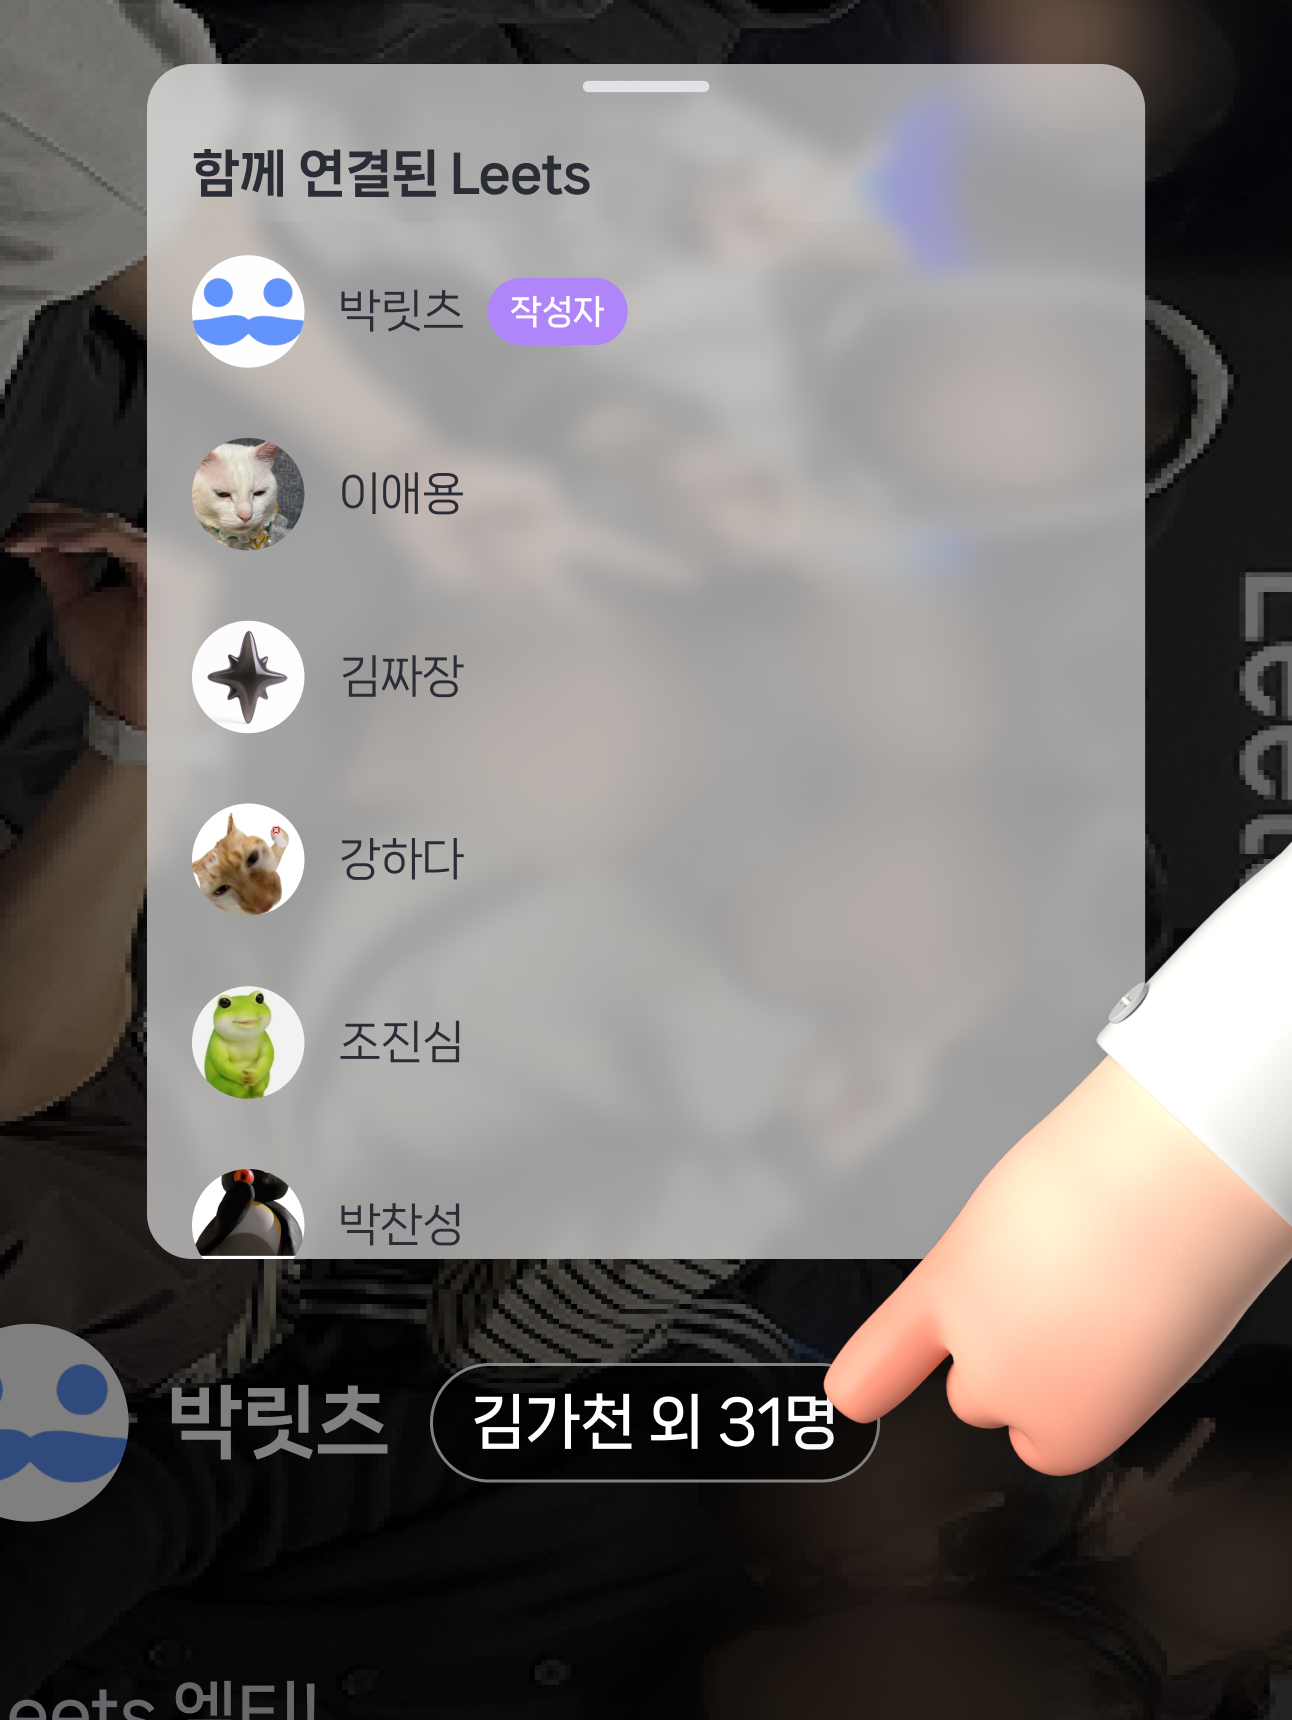
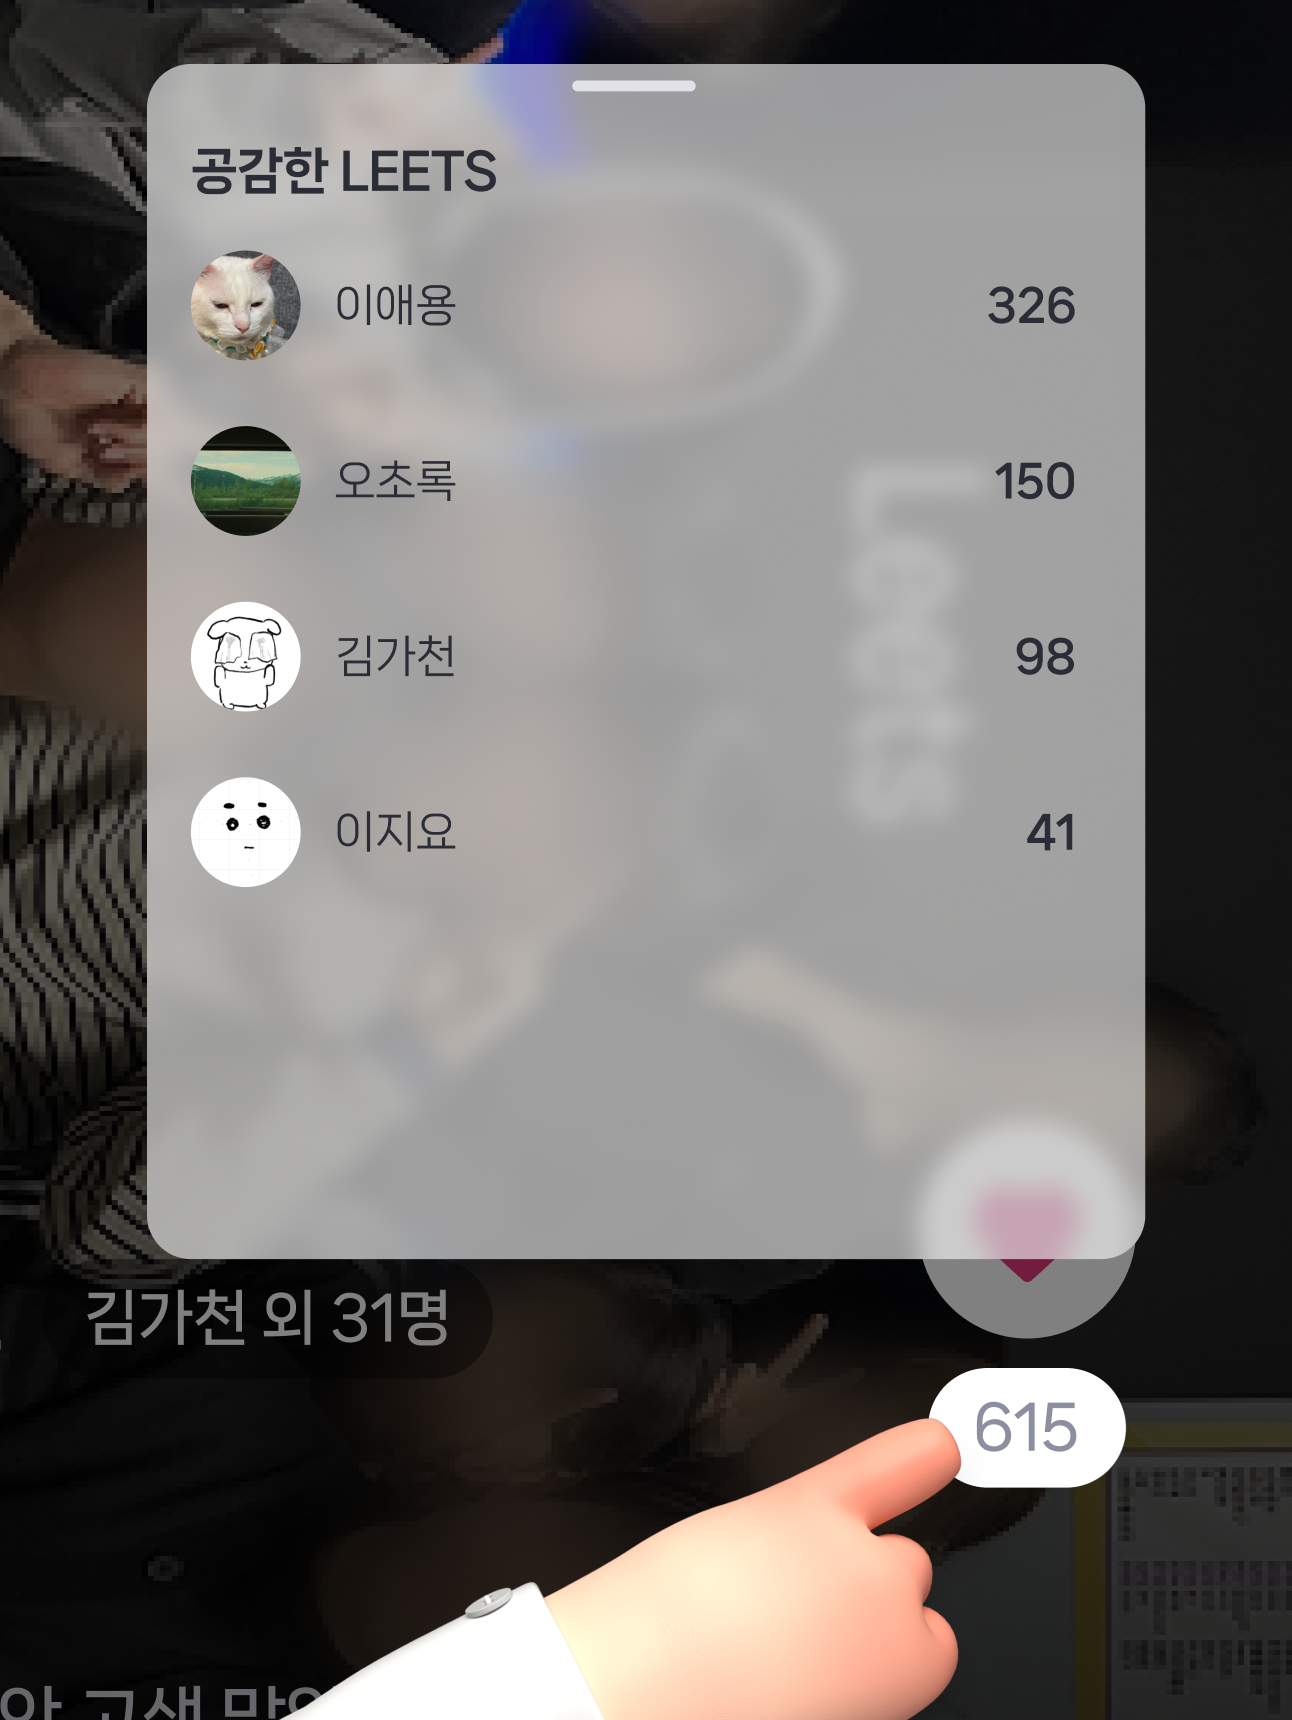
refactor: #25 온보딩 모달 수정

diff --git a/components/OnBoarding.tsx b/components/OnBoarding.tsx
@@ -5,58 +5,45 @@ import {
   fontSize,
   height,
   lineHeight,
+  radius,
   SCREEN_WIDTH,
   width,
 } from '@/theme/globalStyles';
 import { Image } from 'expo-image';
-import React, { useRef } from 'react';
-import { FlatList, Animated } from 'react-native';
+import React, { useState } from 'react';
+import Carousel from 'react-native-reanimated-carousel';
 import styled from 'styled-components/native';
-import { ExpandingDot } from 'react-native-animated-pagination-dots';
-import CustomButton from '@/components/common/Button/CustomButton';
+import { CustomButton } from '@/components';
 
 export default function OnBoarding({ onClose }: { onClose: () => void }) {
-  const scrollX = useRef(new Animated.Value(0)).current;
+  const [currentIndex, setCurrentIndex] = useState(0);
 
   return (
     <Container>
-      <FlatList
+      <Carousel
+        loop={false}
+        width={SCREEN_WIDTH - 48 * width}
+        height={520 * height}
         data={onboardingData}
+        onSnapToItem={setCurrentIndex}
         renderItem={({ item }) => (
           <SlideContainer>
             <TitleText>{item.title}</TitleText>
             <SubText>{item.subText}</SubText>
-            <SlideImage source={item.image} contentFit="contain" />
+            <ImageWrapper>
+              <SlideImage source={item.image} contentFit="contain" />
+            </ImageWrapper>
           </SlideContainer>
         )}
-        keyExtractor={(item) => item.key}
-        horizontal
-        showsHorizontalScrollIndicator={false}
-        pagingEnabled
-        onScroll={Animated.event(
-          [{ nativeEvent: { contentOffset: { x: scrollX } } }],
-          { useNativeDriver: false },
-        )}
+        scrollAnimationDuration={400}
       />
-      <ExpandingDot
-        data={onboardingData}
-        scrollX={scrollX}
-        expandingDotWidth={8}
-        inActiveDotOpacity={1}
-        dotStyle={{
-          width: 8 * width,
-          height: 8 * height,
-          borderRadius: 99,
-          marginHorizontal: 8 * width,
-        }}
-        containerStyle={{
-          alignSelf: 'center',
-          position: 'absolute',
-          bottom: 90 * height,
-        }}
-        inActiveDotColor={'#0000004D'}
-        activeDotColor={colors.black}
-      />
+
+      <IndicatorContainer>
+        {onboardingData.map((_, index) => (
+          <Dot key={index} isActive={index === currentIndex} />
+        ))}
+      </IndicatorContainer>
+
       <CustomButton fullWidth size="lg" onPress={onClose}>
         확인했어
       </CustomButton>
@@ -66,32 +53,66 @@ export default function OnBoarding({ onClose }: { onClose: () => void }) {
 
 const Container = styled.View`
   background-color: ${colors.white};
+  border-radius: ${radius.lg}px;
+  padding: ${32 * height}px ${18 * width}px ${32 * height}px;
+  justify-content: center;
+  align-items: center;
 `;
 
 const SlideContainer = styled.View`
+  width: 100%;
   justify-content: center;
-  align-items: start;
+  align-items: center;
 `;
 
-export const TitleText = styled.Text`
+const TitleText = styled.Text`
   font-size: ${fontSize.lg}px;
   line-height: ${lineHeight.l}px;
   font-family: ${fonts.Bold};
   color: ${colors.black};
-  text-align: start;
+  align-self: flex-start;
+  text-align: left;
+  width: 100%;
 `;
 
-export const SubText = styled.Text`
+const SubText = styled.Text`
   font-size: ${fontSize.md}px;
   line-height: ${lineHeight.m}px;
   font-family: ${fonts.Regular};
   color: ${colors.text[2]};
   margin-top: ${4 * height}px;
-  text-align: start;
+  align-self: flex-start;
+  text-align: left;
+  width: 100%;
+`;
+
+const ImageWrapper = styled.View`
+  width: 100%;
+  aspect-ratio: 3 / 4;
+  border-radius: ${radius.sm}px;
+  overflow: hidden;
+  align-self: center;
+  margin-top: ${16 * height}px;
+  margin-bottom: ${32 * height}px;
 `;
 
 const SlideImage = styled(Image)`
-  width: ${324 * (SCREEN_WIDTH / 375)}px;
-  height: ${430 * height}px;
-  margin: ${16 * height}px 0 ${64 * height}px 0;
+  width: 100%;
+  height: 100%;
+`;
+
+const IndicatorContainer = styled.View`
+  flex-direction: row;
+  align-self: center;
+  margin-bottom: ${32 * height}px;
+  gap: ${8 * width}px;
+`;
+
+const Dot = styled.View<{ isActive: boolean }>`
+  width: ${8 * width}px;
+  height: ${8 * height}px;
+  margin-top: ${-10 * height}px;
+  border-radius: ${radius.full}px;
+  background-color: ${({ isActive }) =>
+    isActive ? 'rgba(0, 0, 0, 0.8)' : 'rgba(0, 0, 0, 0.2)'};
 `;

diff --git a/app/(post)/feed/[id]/index.tsx b/app/(post)/feed/[id]/index.tsx
@@ -15,6 +15,7 @@ import {
   MenuModal,
   PopupModal,
   Loading,
+  OnBoarding,
 } from '@/components';
 import colors from '@/theme/color';
 import styled from 'styled-components/native';
@@ -31,6 +32,8 @@ import { useEffect, useState } from 'react';
 import { useUserInfo } from '@/hooks/useUserInfo';
 import { useUserStore } from '@/stores/userStore';
 import FeedReportModal from '@/components/Modal/FeedReportModal';
+import useFirstLaunch, { useDetailFirstLaunch } from '@/hooks/useFirstLaunch';
+import OnBoardingModal from '@/components/Modal/OnBoardingModal';
 
 export default function FeedDetailPage() {
   const { id } = useLocalSearchParams();
@@ -41,6 +44,9 @@ export default function FeedDetailPage() {
   const { showToast } = useToastStore();
 
   const { userInfo } = useUserStore();
+
+  const firstLaunch = useDetailFirstLaunch();
+  const [showOnBoarding, setShowOnBoarding] = useState(false);
 
   const isAuthor = feed?.author.userId === userInfo?.id;
 
@@ -69,6 +75,14 @@ export default function FeedDetailPage() {
       closeModal();
     }
   };
+
+  useEffect(() => {
+    console.log('firstLaunch', firstLaunch);
+
+    if (firstLaunch === true) {
+      setShowOnBoarding(true);
+    }
+  }, [firstLaunch]);
 
   useEffect(() => {
     if (!id) return;
@@ -122,7 +136,6 @@ export default function FeedDetailPage() {
           minHeight: 220 * height,
         }}
       >
-        {/* 작성자 정보 + 배지 */}
         <RowWrapper>
           <View
             style={{
@@ -155,7 +168,6 @@ export default function FeedDetailPage() {
           />
         </RowWrapper>
 
-        {/* 게시물 내용 */}
         <View
           style={{
             paddingHorizontal: 18 * width,
@@ -175,8 +187,6 @@ export default function FeedDetailPage() {
             {feed.description}
           </Text>
 
-          {/* 작성 날짜 */}
-
           <Text
             style={{
               color: colors.text[3],
@@ -189,22 +199,23 @@ export default function FeedDetailPage() {
           </Text>
         </View>
       </View>
-      {/* 유저리스트 모달 */}
+
       <UserListModal
         visible={modalType === 'feedLinked'}
         title="함께 연결된 Leets"
         list={feed.linkedUser}
         onClose={closeModal}
       />
-      {/* 삭제 메뉴 모달 */}
+
       <MenuModal
         visible={modalType === 'menu'}
         isWrite={false}
         onClose={closeModal}
-        onPressFirst={() => {}} // 추후 수정하기 옵션 추가 시 사용
+        onPressFirst={() => {}}
         secondOptionText={isAuthor ? '삭제하기' : '신고하기'}
         onPressSecond={isAuthor ? handleDelete : handleReport}
       />
+
       {modalType === 'deleteConfirm' && (
         <PopupModal
           isOpen={modalType === 'deleteConfirm'}
@@ -218,7 +229,16 @@ export default function FeedDetailPage() {
           rightBtnText="삭제할래"
         />
       )}
+
       <FeedReportModal feedId={feed.feedId} />
+
+      {/* 온보딩 */}
+      {showOnBoarding && (
+        <OnBoardingModal
+          visible={showOnBoarding}
+          onClose={() => setShowOnBoarding(false)}
+        />
+      )}
     </View>
   );
 }

diff --git a/components/Modal/OnBoardingModal.tsx b/components/Modal/OnBoardingModal.tsx
@@ -1,0 +1,55 @@
+import { useEffect, useRef } from 'react';
+import { Animated, Modal } from 'react-native';
+import styled from 'styled-components/native';
+import { height, radius, SCREEN_HEIGHT, width } from '@/theme/globalStyles';
+import { OnBoarding } from '@/components';
+import colors from '@/theme/color';
+
+interface Props {
+  visible: boolean;
+  onClose: () => void;
+}
+
+export default function OnBoardingModal({ visible, onClose }: Props) {
+  const translateY = useRef(new Animated.Value(SCREEN_HEIGHT)).current;
+
+  useEffect(() => {
+    if (visible) {
+      Animated.timing(translateY, {
+        toValue: 0,
+        duration: 300,
+        useNativeDriver: true,
+      }).start();
+    } else {
+      Animated.timing(translateY, {
+        toValue: SCREEN_HEIGHT,
+        duration: 300,
+        useNativeDriver: true,
+      }).start();
+    }
+  }, [visible]);
+
+  return (
+    <Modal transparent visible={visible} animationType="none">
+      <Container>
+        <AnimatedContent style={{ transform: [{ translateY }] }}>
+          <OnBoarding onClose={onClose} />
+        </AnimatedContent>
+      </Container>
+    </Modal>
+  );
+}
+
+const Container = styled.View`
+  flex: 1;
+  justify-content: flex-end;
+  background-color: transparent;
+`;
+
+const AnimatedContent = styled(Animated.View)`
+  height: ${650 * height}px;
+  background-color: ${colors.white};
+  border-radius: ${radius.lg}px;
+  overflow: hidden;
+  margin: 0 ${8 * width}px ${32 * height}px;
+`;

diff --git a/hooks/useFirstLaunch.ts b/hooks/useFirstLaunch.ts
@@ -25,3 +25,28 @@ export default function useFirstLaunch() {
 
   return firstLaunch;
 }
+
+export function useDetailFirstLaunch() {
+  const [firstLaunch, setFirstLaunch] = useState<boolean | null>(null);
+
+  useEffect(() => {
+    const checkFirstLaunch = async () => {
+      try {
+        const value = await AsyncStorage.getItem('detailLaunched');
+        if (value == null) {
+          await AsyncStorage.setItem('detailLaunched', 'true');
+          setFirstLaunch(true);
+        } else {
+          setFirstLaunch(false);
+        }
+      } catch (error) {
+        console.warn('Failed to check first launch status:', error);
+        setFirstLaunch(false);
+      }
+    };
+
+    checkFirstLaunch();
+  }, []);
+
+  return firstLaunch;
+}

diff --git a/constants/onBoardingData.ts b/constants/onBoardingData.ts
@@ -1,10 +1,10 @@
 export const onboardingData = [
-  {
-    key: '1',
-    title: '스크롤해서 전환해 보자!',
-    subText: '위아래로 스크롤 하면 다른 피드를 볼 수 있어.',
-    image: require('@/assets/images/onboarding/slide1.png'),
-  },
+  // {
+  //   key: '1',
+  //   title: '스크롤해서 전환해 보자!',
+  //   subText: '위아래로 스크롤 하면 다른 피드를 볼 수 있어.',
+  //   image: require('@/assets/images/onboarding/slide1.png'),
+  // },
   {
     key: '2',
     title: '하트 테러 함께 해볼까?!',

diff --git a/components/index.tsx b/components/index.tsx
@@ -21,6 +21,7 @@ import MenuModal from '@/components/Modal/MenuModal';
 import PopupModal from '@/components/Modal/PopupModal';
 import Loading from '@/components/common/Loading';
 import BottomSheetModal from '@/components/Modal/BottomSheetModal';
+import OnBoarding from '@/components/OnBoarding';
 export {
   CustomButton,
   Input,
@@ -45,4 +46,5 @@ export {
   PopupModal,
   Loading,
   BottomSheetModal,
+  OnBoarding,
 };
